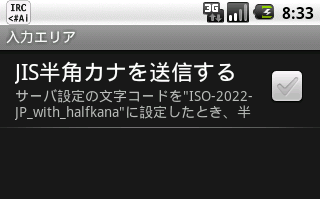
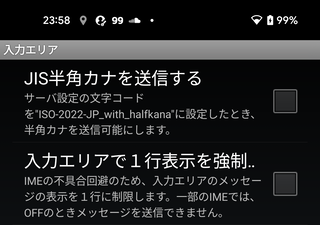
細かい調整

diff --git a/help/websiteedit.html b/help/websiteedit.html
@@ -37,9 +37,14 @@
 
 <DT id="fromlist">ブックマークから選択</DT>
 <DD>
-<DIV>ブラウザのブックマークから、表示するウェブサイトを選ぶことができます。ブックマークからウェブサイトを選択するか、URLを入力しないと、<SPAN class="ctrl">[OK]ボタン</SPAN>を押すことができません。</DIV>
-<DIV>ウェブサイトを選択した後（またはURLを入力した後）、必要であれば「メニューで表示されるウェブサイト名」を変更することができます。</DIV>
+<DIV><S>ブラウザのブックマークから、表示するウェブサイトを選ぶことができます。ブックマークからウェブサイトを選択するか、URLを入力しないと、<SPAN class="ctrl">[OK]ボタン</SPAN>を押すことができません。</S></DIV>
+<DIV><S>ウェブサイトを選択した後（またはURLを入力した後）、必要であれば「メニューで表示されるウェブサイト名」を変更することができます。</S></DIV>
 </DD>
+
+<TABLE><TR><TD>
+<DIV class="fyi">
+<DIV>この機能は、Android OSのバージョンアップに伴い廃止となりました。</DIV>
+</TD></TR></TABLE>
 
 <DT id="ok">OK</DT>
 <DD>

diff --git a/help/system.html b/help/system.html
@@ -456,6 +456,12 @@
 </TD></TR></TABLE>
 </DD>
 
+<DT id="singleline">入力エリアで１行表示を強制する</DT>
+<DD>
+<DIV>IMEの不具合回避のため、入力エリアの送信メッセージの表示を１行に制限します。一部のIMEでは、OFFのとき入力メッセージをEnterキーで送信できない問題が発生しますが、ONにすることでこれを回避することができます。</DIV>
+<DIV>表示を１行に制限しているときは、入力中のメッセージが収まりきらなくなった場合、横スクロールで一部だけが表示されます。制限していないときは、全体が複数行に折り返して表示されます。</DIV>
+</DD>
+
 </DL>
 
 

diff --git a/help/index.html b/help/index.html
@@ -110,6 +110,19 @@
 
 <DL class="item">
 
+<DT>2023.0826.1</DT>
+<DD>
+<UL>
+<LI>Android OS13に対応（および、minSdkVersionを22(OS5.1)に変更）。
+<LI>一部IMEで「Enter入力による送信」ができなかったのを改善。このため入力エリアが「１行入力＋横スクロール」になるが、設定で元の動作に戻すこともできる。
+
+</UL>
+
+</DD>
+
+
+
+
 <DT>2018.0410.2</DT>
 <DD>
 <UL>
